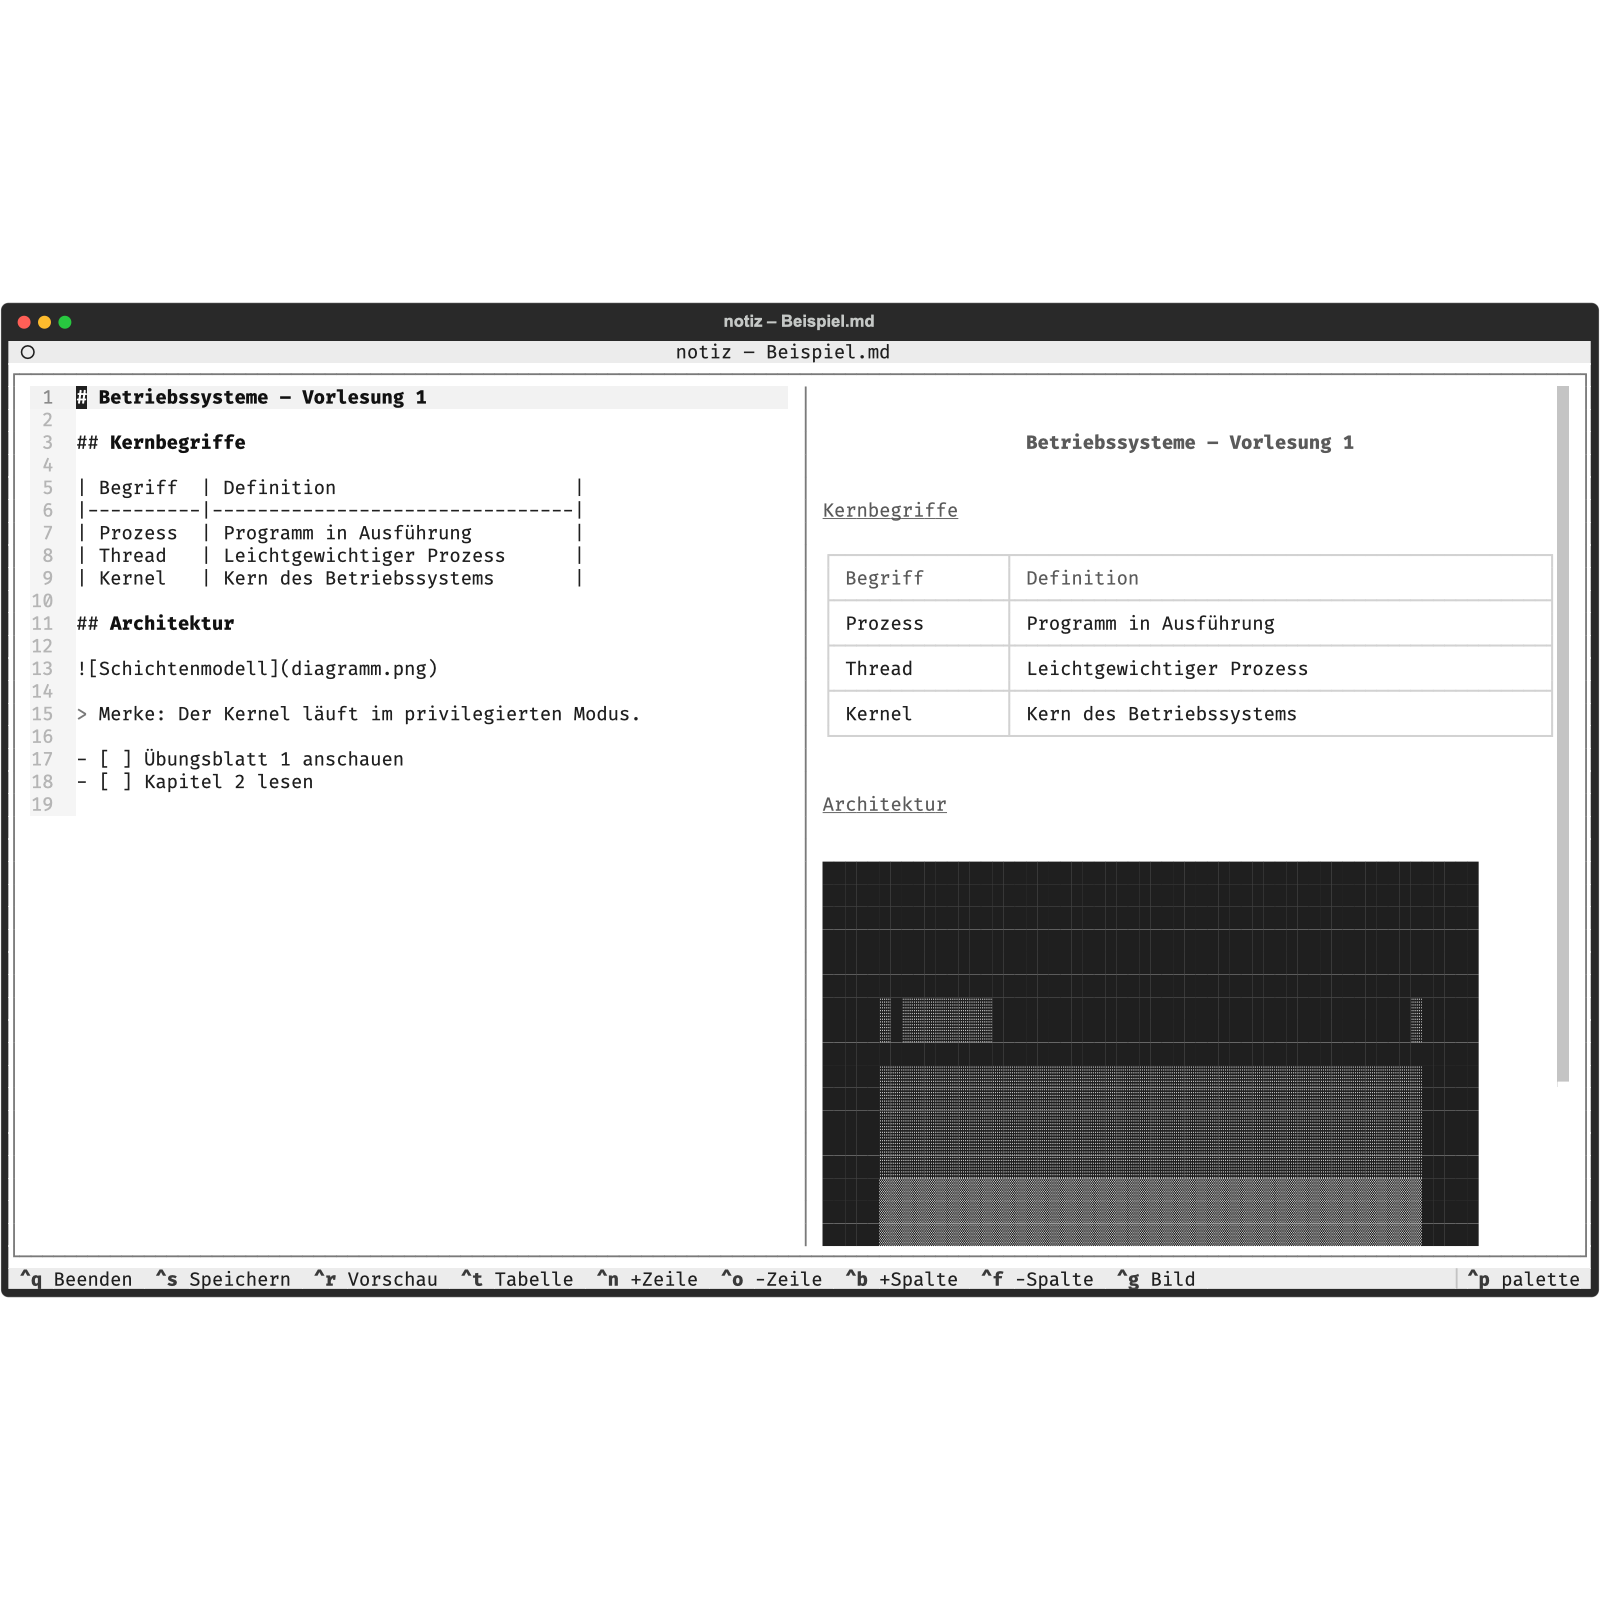
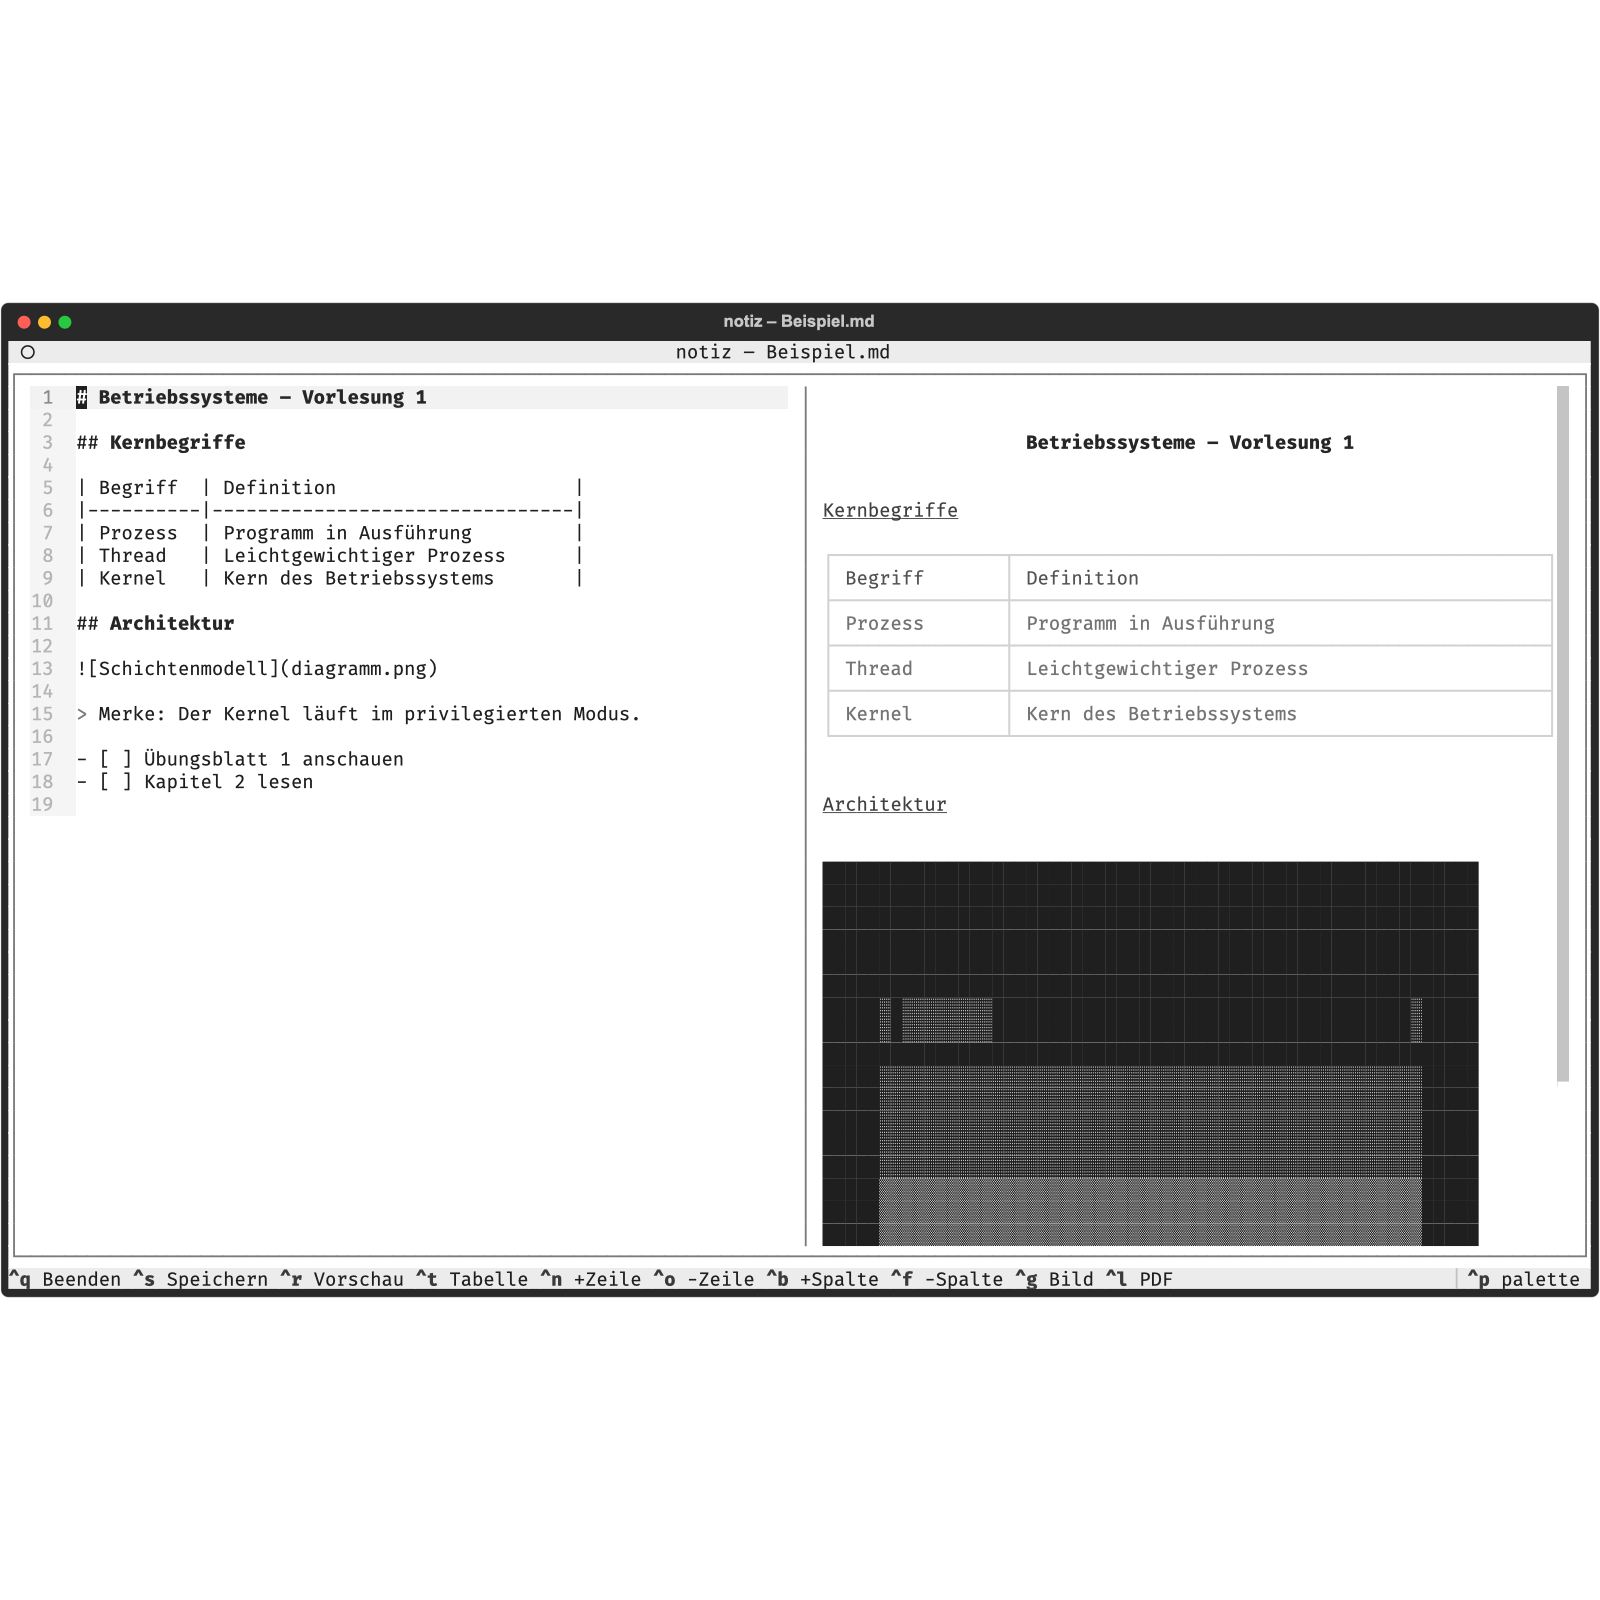
Grau-Hierarchie auch in der Terminal-Vorschau: Überschriften, Tabellenkopf und Stichpunkte wie im PDF abgestuft

diff --git a/app.py b/app.py
@@ -148,7 +148,7 @@ EDITOR_THEME = TextAreaTheme(
     selection_style=Style(bgcolor="#dcdcdc"),
     bracket_matching_style=Style(bgcolor="#e4e4e4", bold=True),
     syntax_styles={
-        "heading": Style(color="#111111", bold=True),
+        "heading": Style(color="#262626", bold=True),
         "bold": Style(color="#1f1f1f", bold=True),
         "italic": Style(color="#1f1f1f", italic=True),
         "link": Style(color="#4a4a4a", underline=True),
@@ -257,7 +257,14 @@ class NotizApp(App):
     #preview Markdown {
         margin: 0;
         padding: 0;
+        color: #737373;
     }
+    /* Grau-Hierarchie wie im PDF: Titel dunkel, Text hell, Tabellenkopf dazwischen */
+    MarkdownH1 { color: #262626; }
+    MarkdownH2 { color: #404040; }
+    MarkdownH3 { color: #525252; }
+    MarkdownTableContent > .header { color: #525252; }
+    MarkdownBullet { color: #a3a3a3; }
     Footer {
         scrollbar-size: 0 0;
     }
@@ -280,7 +287,7 @@ class NotizApp(App):
         margin: 1 0 0 0;
     }
     .image-caption {
-        color: $secondary;
+        color: #a3a3a3;
         text-style: italic;
         margin: 0 0 1 0;
     }

diff --git a/smoke_test.py b/smoke_test.py
@@ -21,6 +21,11 @@ async def main() -> None:
         assert images, "Vorschau enthaelt kein Bild-Widget"
         assert app.query(".image-caption"), "Bildunterschrift fehlt in der Vorschau"
 
+        # Grau-Hierarchie in der Vorschau wie im PDF
+        from textual.widgets._markdown import MarkdownH1, MarkdownH2
+        assert app.query(MarkdownH1).first().styles.color.hex.lower() == "#262626"
+        assert app.query(MarkdownH2).first().styles.color.hex.lower() == "#404040"
+
         editor = app.query_one("#editor", TextArea)
         editor.insert("\n\nNeuer Testabsatz.\n")
         await pilot.pause(1.0)
